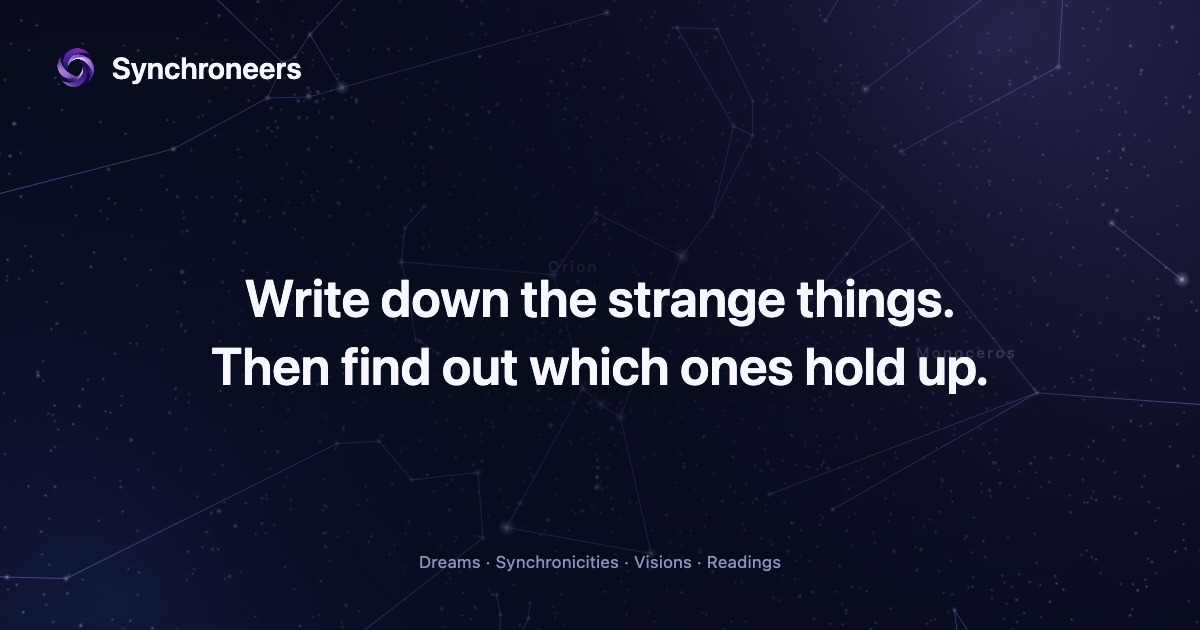
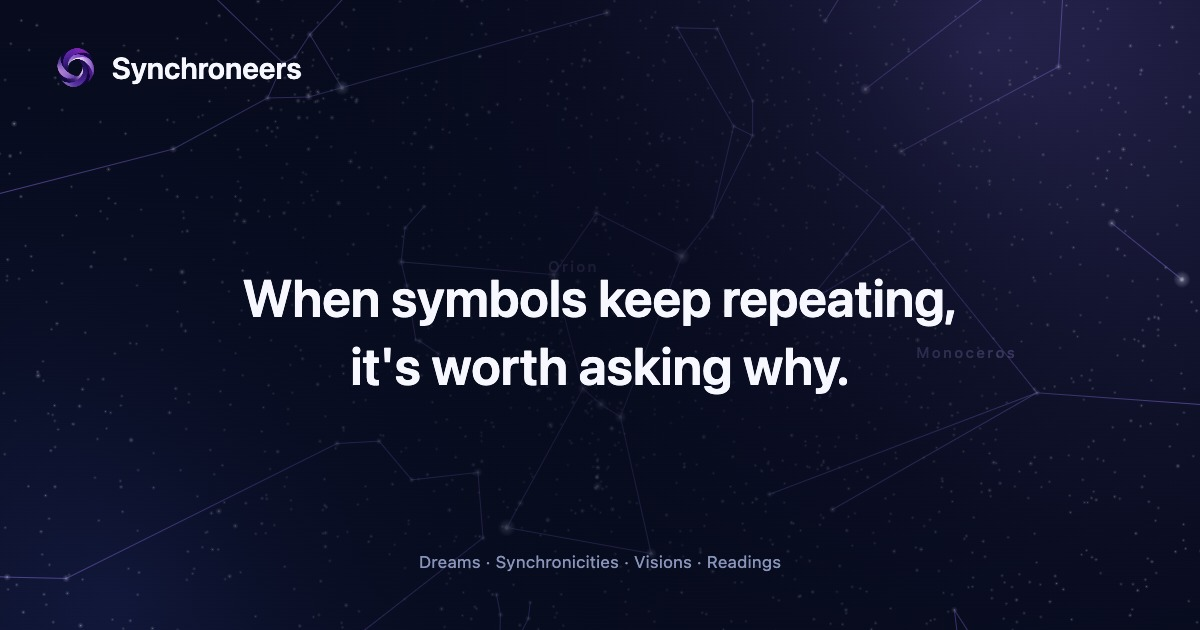
feat: an entry names itself, and the membership finally has somewhere to stand
Naming an entry no longer costs a model call. It cost two: the editor asked for
a suggestion while the dream was still being written, and a second request went
out after the save to name anything left untitled. Both are gone. The name comes
from the writer's own opening words, and the derivation learned the things a
person would do by hand — drop the framing, so "I dreamt that I was standing in
a field" is read as "I was standing in a field"; break at a sentence, then a
semicolon or dash, then a comma, but only when the clause before the comma can
stand on its own, so "A doorway, and then nothing" survives whole; and
capitalise what is left, because stripping an opener strands the line mid-flow.

The suggestion that remains asks once per entry rather than three times.
Autosave bumps the version on every pause in typing, and the later asks were
re-labelling a body that had grown by a sentence and getting back much the same
chips for another provider call each. An ordinary saved entry went from up to
four calls to one.

The server no longer asks for a title at all — schema, prompt, and the echo
check that existed only to catch the model handing the sentence back — but it
still answers with a title of null, so a client built before this reads an entry
with no suggested name rather than an error.

docs/AI_COST.md is the rest of the audit: every paid call, what it costs, and
the two levers still untouched. The largest is that the free allowance is twenty
[…]

Changed region(s): [[0.185, 0.4222, 0.8325, 0.6333]]

diff --git a/index.html b/index.html
@@ -6,17 +6,14 @@
     <title>Synchroneers</title>
     <meta
       name="description"
-      content="A private journal for dreams, synchronicities, visions, and readings. Read any entry through a named framework, see the evidence behind every pattern, and check what you found against what actually happened."
+      content="When symbols keep repeating, it's worth asking why. A private journal for dreams, synchronicities, visions, and readings — read any entry through a perspective you choose, and build an archive of the moments that matter."
     />
     <meta name="theme-color" content="#070b1d" />
 
     <meta property="og:type" content="website" />
     <meta property="og:site_name" content="Synchroneers" />
     <meta property="og:title" content="Synchroneers" />
-    <meta
-      property="og:description"
-      content="Write down the strange things. Then find out which ones hold up."
-    />
+    <meta property="og:description" content="When symbols keep repeating, it's worth asking why." />
     <meta property="og:image" content="/assets/og.jpg" />
     <meta property="og:image:width" content="1200" />
     <meta property="og:image:height" content="630" />
@@ -29,7 +26,7 @@
     <meta name="twitter:title" content="Synchroneers" />
     <meta
       name="twitter:description"
-      content="Write down the strange things. Then find out which ones hold up."
+      content="When symbols keep repeating, it's worth asking why."
     />
     <meta name="twitter:image" content="/assets/og.jpg" />
 
@@ -55,14 +52,14 @@
         </a>
         <nav aria-label="Sections">
           <ul class="nav-links">
-            <li><a href="#loop">The loop</a></li>
+            <li><a href="#loop">Synchronicity</a></li>
             <li><a href="#capture">Capture</a></li>
             <li><a href="#perspectives">Perspectives</a></li>
             <li><a href="#privacy">Privacy</a></li>
           </ul>
         </nav>
         <a class="btn btn--primary btn--sm" href="https://apps.apple.com/app/id6751279447"
-          >Get the app</a
+          >Download free</a
         >
       </header>
 
@@ -70,24 +67,22 @@
         <!-- ============ Hero ============ -->
         <section class="hero" id="top">
           <div class="hero-copy wrap">
-            <p class="kicker kicker--rule">Structured reflection · iPhone</p>
+            <p class="kicker kicker--rule">Dreams · Symbols · Synchronicities</p>
 
             <h1>
-              <span class="line">Write down the</span>
-              <span class="line"><span class="glow">strange</span> things.</span>
-              <span class="line">Then find out which</span>
-              <span class="line">ones hold up.</span>
+              <span class="line">When symbols keep</span>
+              <span class="line"><span class="glow">repeating</span>, it's worth</span>
+              <span class="line">asking why.</span>
             </h1>
 
             <p class="lede">
-              Synchroneers keeps your dreams, synchronicities, visions, and readings in one private
-              journal, reads any entry through a framework you choose, and turns what surfaces into
-              something observable you can check against what actually happens.
+              Have you ever woken up thinking <em>that dream felt different</em>? Or found yourself
+              wondering <em>that couldn't have been a coincidence</em>? You're not the only one.
             </p>
 
             <div class="hero-actions">
               <a class="btn btn--primary" href="https://apps.apple.com/app/id6751279447">
-                Get Synchroneers
+                Download free
                 <svg width="15" height="15" viewBox="0 0 16 16" fill="none" aria-hidden="true">
                   <path
                     d="M3 8h10M9 4l4 4-4 4"
@@ -99,16 +94,16 @@
                 </svg>
               </a>
               <a class="text-link" href="#loop">
-                See how the loop works
+                What is a synchronicity?
                 <span class="arrow" aria-hidden="true">↓</span>
               </a>
             </div>
 
             <ul class="hero-meta">
-              <li>Free at launch</li>
-              <li>No subscription</li>
-              <li>No ads</li>
+              <li>Free to download</li>
               <li>Private by default</li>
+              <li>No ads</li>
+              <li>iPhone</li>
             </ul>
           </div>
 
@@ -122,12 +117,17 @@
         <section class="section section--enter" id="loop">
           <div class="wrap">
             <div class="section-head reveal">
-              <p class="kicker kicker--rule">The loop</p>
-              <h2>Five moves, and none of them ask you to believe anything.</h2>
+              <p class="kicker kicker--rule">What is a synchronicity?</p>
+              <h2>A synchronicity is a meaningful coincidence.</h2>
               <p>
-                Everything in the app serves the same cycle. A reading is a starting point, not a
-                verdict, and the loop only closes when you say what actually happened.
+                Glancing at the clock and seeing 11:11. A stranger repeating a phrase from last
+                night's dream. A symbol that keeps appearing, again and again. Some people ignore
+                them. Others take note — and taking note is the same five moves every time.
               </p>
+              <a class="text-link" href="https://apps.apple.com/app/id6751279447">
+                Download free
+                <span class="arrow" aria-hidden="true">→</span>
+              </a>
             </div>
 
             <div class="loop">
@@ -188,12 +188,17 @@
         <section class="section" id="capture">
           <div class="wrap">
             <div class="section-head reveal">
-              <p class="kicker kicker--rule">Capture</p>
-              <h2>Four kinds of experience, each asked a different question.</h2>
+              <p class="kicker kicker--rule">Guidance is flowing every day</p>
+              <h2>Dreams. Symbols. Synchronicities. Intuition.</h2>
               <p>
-                A dream and a tarot spread are not the same object, so the editor does not pretend
-                they are. Pick a kind and the prompt changes with it.
+                Life is constantly offering moments of guidance. Most are forgotten. But the more
+                you pay attention, the more is revealed — so a dream and a tarot spread are asked
+                different questions rather than filed the same way.
               </p>
+              <a class="text-link" href="https://apps.apple.com/app/id6751279447">
+                Download free
+                <span class="arrow" aria-hidden="true">→</span>
+              </a>
             </div>
 
             <div class="types">
@@ -517,18 +522,22 @@
 
         <!-- ============ Closing ============ -->
         <section class="closing">
-          <p class="kicker kicker--rule reveal">Free at launch</p>
-          <h2 class="reveal">Start with tonight.</h2>
+          <p class="kicker kicker--rule reveal">Your Spiritual Navigation System</p>
+          <h2 class="reveal">Your journey starts here.</h2>
           <p class="lede reveal" data-delay="1">
-            One entry is enough to begin. The patterns need a few weeks, and the app will tell you
-            honestly when it does not have enough to say anything yet.
+            Capture dreams and synchronicities. Explore different perspectives. Connect with fellow
+            dreamers. Build your own archive. Everything together, whenever you need it.
+          </p>
+          <p class="lede reveal" data-delay="1">
+            Download Synchroneers for free today, and start paying attention to the moments that
+            matter.
           </p>
           <a
             class="btn btn--primary reveal"
             data-delay="2"
             href="https://apps.apple.com/app/id6751279447"
           >
-            Get Synchroneers
+            Download free
             <svg width="15" height="15" viewBox="0 0 16 16" fill="none" aria-hidden="true">
               <path
                 d="M3 8h10M9 4l4 4-4 4"

diff --git a/tools/og.html b/tools/og.html
@@ -178,8 +178,8 @@
       ctx.textAlign = 'center';
       ctx.font = '600 52px Inter, system-ui, sans-serif';
       ctx.fillStyle = '#f7f8ff';
-      ctx.fillText('Write down the strange things.', W / 2, H / 2 + 2);
-      ctx.fillText('Then find out which ones hold up.', W / 2, H / 2 + 70);
+      ctx.fillText('When symbols keep repeating,', W / 2, H / 2 + 2);
+      ctx.fillText("it's worth asking why.", W / 2, H / 2 + 70);
 
       /* ---- footer line ---- */
       ctx.font = '400 17px Inter, system-ui, sans-serif';
